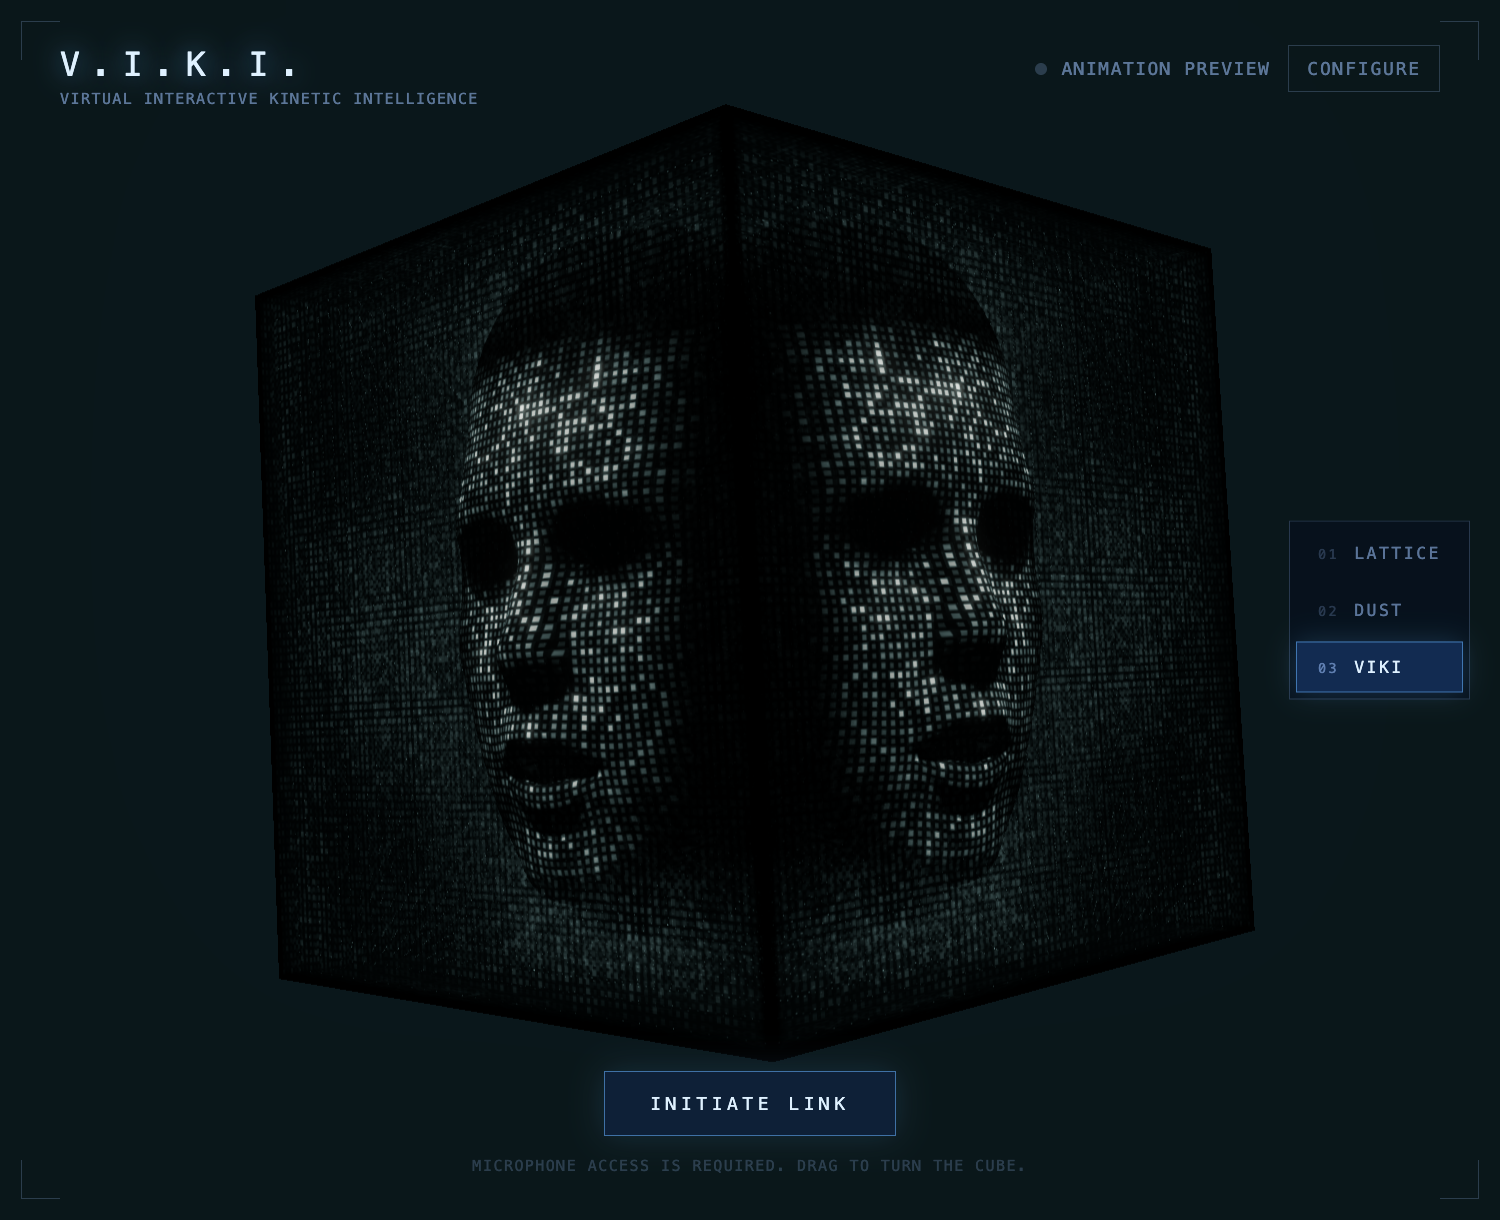
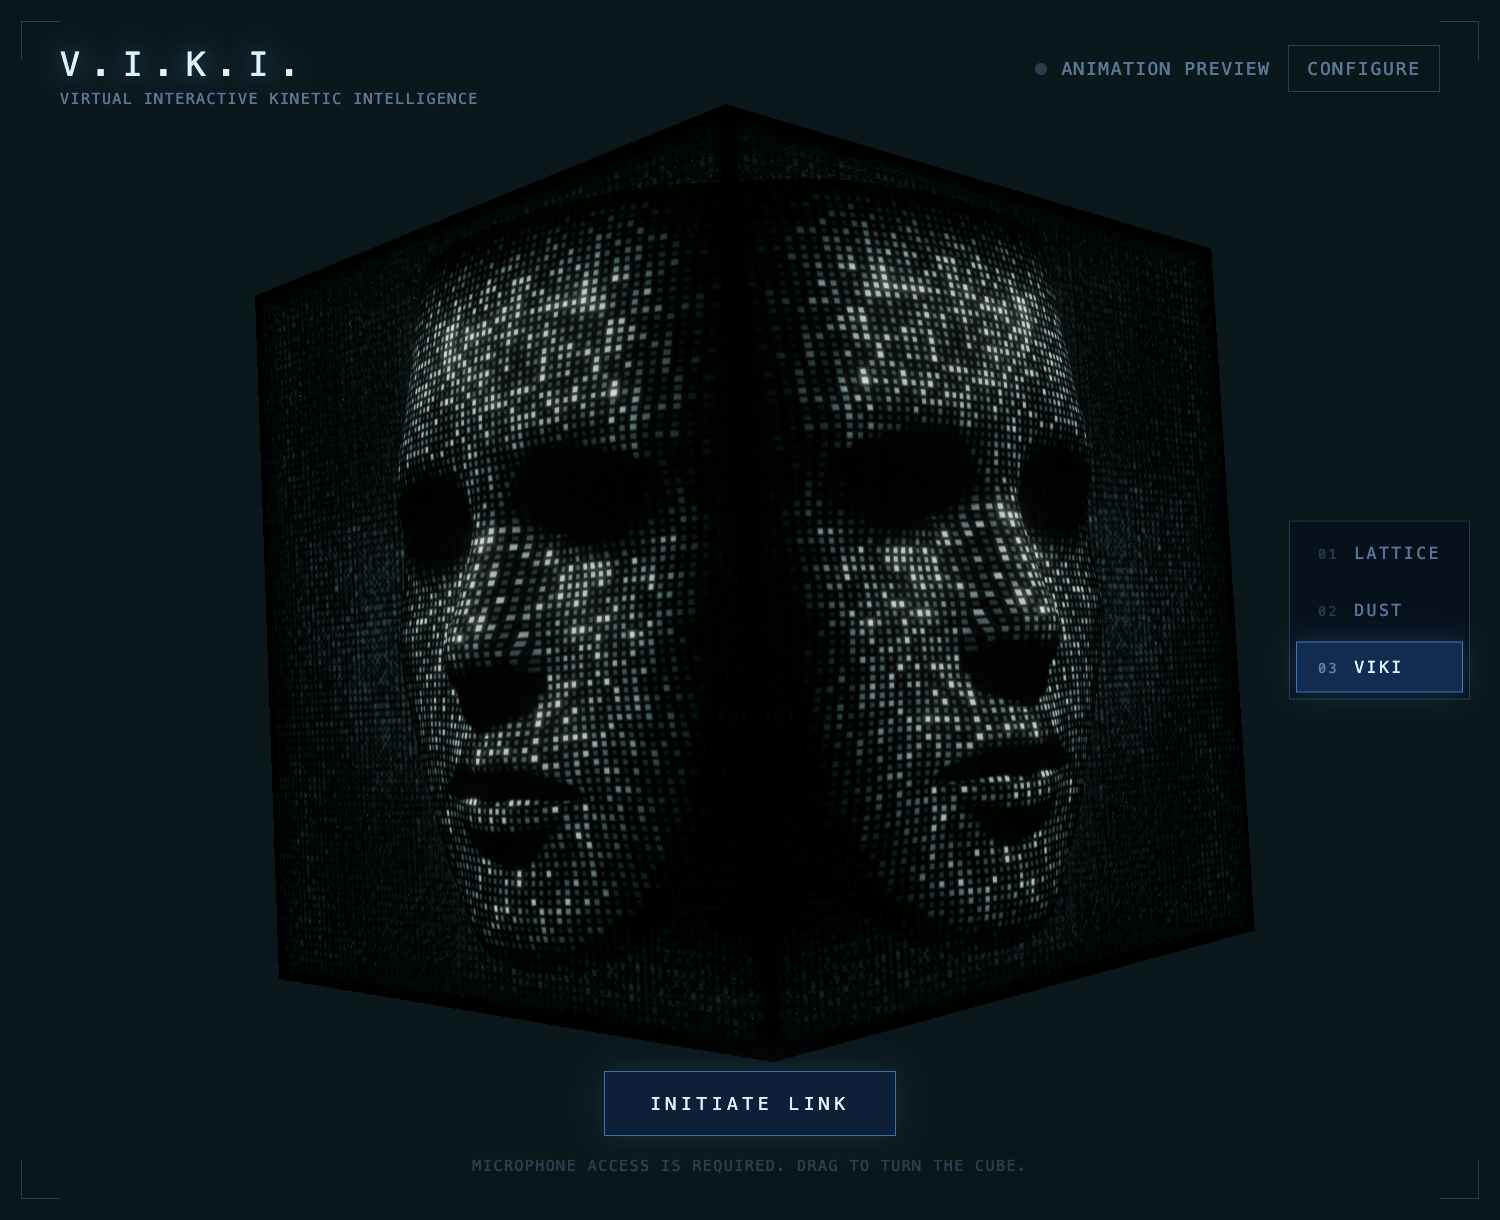
VIKI style: larger default head (size 0.5, height -0.59)
Matches the hand-tuned framing; Lattice and Dust defaults untouched.
Refreshed the README gallery shot.

Changed region(s): [[0.5213, 0.1557, 0.736, 0.7787], [0.2453, 0.1869, 0.4907, 0.8098]]

diff --git a/src/viki/config.ts b/src/viki/config.ts
@@ -163,8 +163,8 @@ export const STYLE_DEFAULTS: Record<HeadStyle, HeadConfig> = {
     dataFlow: 1,
     flowSpeed: 0.7,
     portraitDepth: 0,
-    headScale: 0.38,
-    headY: -0.46,
+    headScale: 0.5,
+    headY: -0.59,
   },
 }
 
